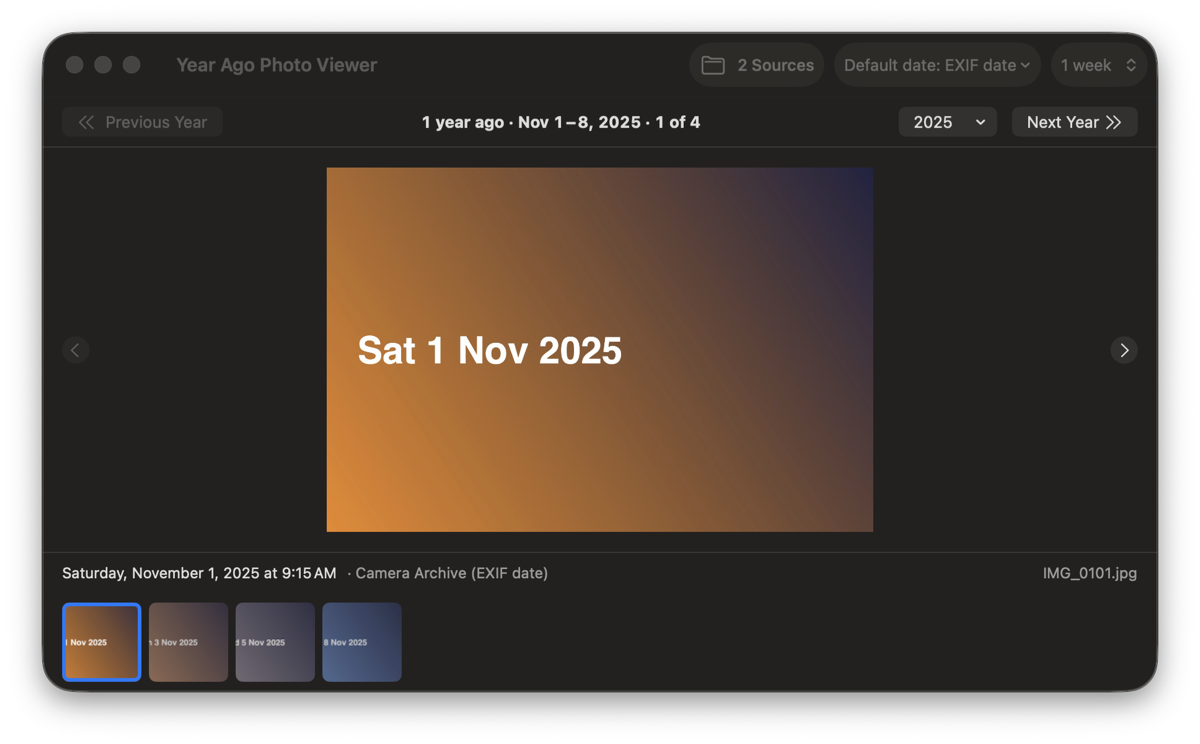
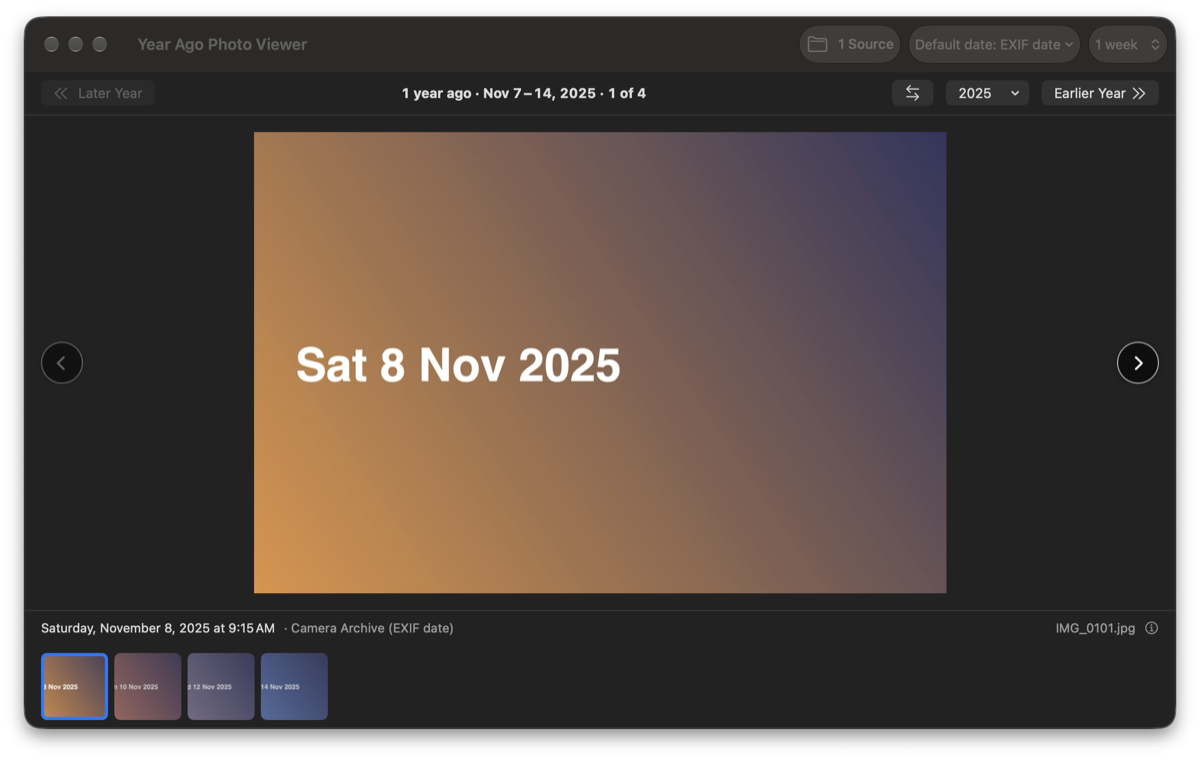
Docs: oldest-first navigation (plan step 4.5)
README, proposal, and checklist describe Earlier Year / Later Year, the
oldest-first setting, jumps to either end, and arrows that carry on into
the next year. The viewer screenshot is retaken with the new year bar,
from made-up sample images.

diff --git a/docs/proposal.md b/docs/proposal.md
@@ -8,8 +8,9 @@ Target platform: macOS 26 (Tahoe), Apple silicon
 
 Year Ago Photo Viewer is a small native macOS app. It shows the photos you took
 around this time in past years. Open it, and you step through last year's
-photos from the past week. Press "Next year", and you step through the same
-week two years ago, then three.
+photos from the past week. Press "Earlier year", and you step through the
+same week two years ago, then three. Or start at the oldest year and travel
+forward in time (section 4.3).
 
 The app reads photos from one or more sources at once:
 
@@ -86,8 +87,8 @@ Some years have no photos in the window. A setting controls what happens:
 - **Setting.** A checkbox: "Show years with no photos". It is on by default.
 - **On.** Every year from 1 to N appears. An empty year shows an empty panel
   with the usual header, such as "6 years ago · 1–8 Nov 2020 · No photos".
-  "Next year" moves to it like any other year.
-- **Off.** Empty years are skipped. "Previous year" and "Next year" jump to
+  "Earlier year" moves to it like any other year.
+- **Off.** Empty years are skipped. "Earlier year" and "Later year" jump to
   the nearest year with photos. The year picker hides empty years.
 
 The checkbox lives in Settings and in the View menu. Changing it applies at
@@ -100,25 +101,36 @@ year with photos. If no year has photos, the app shows the empty panel anyway.
 
 Navigation has two levels: photos within a year, and years.
 
-**Within a year.** The app opens at N = 1 on the first photo in the window.
-The user steps through the photos in date order:
+**Within a year.** The app opens on the first photo in a year's window: at
+N = 1, or with oldest years first, at the oldest year with photos. The user
+steps through the photos in date order:
 
 - **Keys.** Left and right arrow keys.
 - **Buttons.** "Previous photo" and "Next photo" on screen.
 - **Position.** A counter shows progress, such as "12 of 37".
 
-Stepping never crosses into another year. After the last photo, the app shows
-an end card. The card offers a "Next year" button.
+After the last photo, the app shows an end card. The card offers the next
+year in the direction of travel. → on the end card opens the next year with
+photos; ← on a year's first photo returns to the previous year's end card.
 
-**Between years.** Only an explicit action changes the year:
+**Direction.** "Oldest years first" (View menu, Settings, and a ⇆ button in
+the year bar) chooses where travel starts and which way it goes. It's off by
+default. Changing it doesn't move the viewer.
 
-- **Buttons.** "Previous year" and "Next year" in the toolbar.
-- **Keys.** ⌘[ and ⌘].
-- **Picker.** A menu that lists the years. Empty years appear with
-  "(no photos)" or are hidden, per section 4.2.1.
+**Between years.**
+
+- **Buttons.** "Earlier year" and "Later year" in the year bar. The
+  right-hand one always goes forward in the direction of travel.
+- **Keys.** ⌘[ and ⌘] press the left and right buttons. ⇧⌘] jumps to the
+  far end in the direction of travel, and ⇧⌘[ to the start.
+- **Picker.** A menu that starts with "Oldest year" and "Most recent year",
+  then lists the years in travel order. Empty years appear with
+  "(no photos)" or are hidden, per section 4.2.1. The jumps always land on a
+  year with photos.
 
 Changing the year opens that year's window at its first photo. An empty year
-opens the empty panel.
+opens the empty panel. See
+[oldest-first-navigation-implementation-plan.md](oldest-first-navigation-implementation-plan.md).
 
 The header always shows the year both ways, for example:
 **"2 years ago · 1–8 Nov 2024 · 12 of 37"**.
@@ -256,7 +268,7 @@ One main window, built in SwiftUI. The current photo fills most of it.
 ┌───────────────────────────────────────────────────────────────────┐
 │ [Sources: 3 ▾] [Default date: EXIF ▾] [Window: 1 week ▾]          │
 │                                                                   │
-│ ◀◀ Prev year   2 years ago · 1–8 Nov 2024   [Year ▾] Next year ▶▶ │
+│ ◀◀ Later year  2 years ago · 1–8 Nov 2024   ⇆ [Year ▾] Earlier ▶▶ │
 ├───────────────────────────────────────────────────────────────────┤
 │                                                                   │
 │                                                                   │
@@ -280,9 +292,11 @@ One main window, built in SwiftUI. The current photo fills most of it.
   [photo-info-implementation-plan.md](photo-info-implementation-plan.md).
 - **Counter.** Position within this year's window.
 - **Filmstrip.** Thumbnails of this year's photos. Click one to jump to it.
-- **Year controls.** Previous year, next year, and a year picker.
-- **End card.** After the last photo: "That's all for 2024" and a
-  "Next year" button.
+- **Year controls.** Later year and earlier year (sides follow the
+  direction of travel), the ⇆ direction toggle, and a year picker.
+- **End card.** After the last photo: "That's all for 2024" and a button
+  for the next year in the direction of travel, such as "Earlier year:
+  2023".
 - **Sources button.** Shows how many sources are enabled. Opens the Sources
   panel.
 - **Default date menu.** The four date sources. Sets the default for new
@@ -290,7 +304,8 @@ One main window, built in SwiftUI. The current photo fills most of it.
 - **Window menu.** 1 to 6 weeks.
 - **Empty panel.** Shown for a year with no photos, when empty years are
   shown. It reads "No photos from 1–8 Nov 2019". It keeps the year controls
-  and offers a "Next year" button. The filmstrip is hidden.
+  and offers the next year in the direction of travel. The filmstrip is
+  hidden.
 - **Empty years setting.** "Show years with no photos" checkbox. See 4.2.1.
 - **Progress.** A progress bar during the first scan of a large folder.
 
@@ -481,8 +496,9 @@ The code will be public. These rules keep personal data out:
 - **Multiple sources.** Photos from all enabled sources merge in date order.
   Each source uses its own date source. Disabled and offline sources are
   skipped.
-- **Navigation.** Stepping stops at the end card and never changes the year.
-- **Empty years.** With the setting on, "Next year" lands on empty years.
+- **Navigation.** Year moves in both directions, the start year, and the
+  ends skip empty years where they should.
+- **Empty years.** With the setting on, "Earlier year" lands on empty years.
   With it off, it skips them. The all-empty case still shows a panel.
 - **Widget snapshot.** The manifest and thumbnails match the chosen window.
 - **Indexer.** Incremental rescans after add, change, and delete.

diff --git a/README.md b/README.md
@@ -2,7 +2,8 @@
 
 A small macOS app that shows the photos you took around this time in past
 years. Open it to step through last year's photos from the past week. Press
-**Next Year** to see the same week two years ago, then three.
+**Earlier Year** to see the same week two years ago, then three. Or start at
+your oldest photos and travel forward in time.
 
 ![The viewer showing photos from one year ago](docs/images/viewer.png)
 
@@ -87,8 +88,13 @@ App Groups need a development team, so:
 2. **Step through photos.** Use ← and →, the arrow buttons, or the filmstrip.
 3. **Zoom.** Pinch, double-click, or use ⌘= / ⌘- / ⌘0. Drag to look around.
    Moving to another photo returns to fit.
-4. **Change year.** Use **Next Year** / **Previous Year**, ⌘] / ⌘[, or the
-   year menu.
+4. **Change year.** Use **Earlier Year** / **Later Year**, ⌘[ / ⌘], or the
+   year menu. The year menu also jumps to the **Oldest Year** or **Most
+   Recent Year** (⇧⌘[ / ⇧⌘]). On a year's last photo, → carries on into the
+   next year.
+   - **Oldest first.** Click ⇆ in the year bar (or **View › Oldest Years
+     First**) to start at your oldest photos and go forward in time. The
+     right-hand button and ⌘] always move in your direction of travel.
 5. **Photo info.** Click ⓘ in the caption bar, or press ⌘I. Moving to another
    photo closes it. **Open in Maps** shows where the photo was taken. Photos
    library items show basic info only.

diff --git a/docs/manual-test-checklist.md b/docs/manual-test-checklist.md
@@ -112,6 +112,26 @@ possible, one on an external drive.
   allowed, add the system library's file. The app says it's the same
   library. The new row is named "… (File)". Each photo shows once.
 
+## Oldest-first navigation
+
+Use folders with photos from several years around today's date.
+
+- [ ] **Labels.** The year bar says **◀◀ Later Year** and **Earlier Year
+  ▶▶**. Hovering shows the target year and key.
+- [ ] **Oldest first.** Click ⇆. The buttons swap to **◀◀ Earlier Year** and
+  **Later Year ▶▶**; the year doesn't change. **View › Oldest Years First**
+  and **Settings › Start with the oldest year** follow.
+- [ ] **Launch.** With oldest first on, quit and relaunch: it opens at the
+  oldest year with photos. With it off: at 1 year ago.
+- [ ] **Keys.** ⌘[ and ⌘] press the left and right year buttons in both
+  modes.
+- [ ] **Jumps.** The year menu's **Oldest Year** and **Most Recent Year**
+  work, and are disabled when already there. ⇧⌘] jumps to the far end in
+  the direction of travel; ⇧⌘[ to the start.
+- [ ] **End card.** It offers the next year in the direction of travel.
+- [ ] **Across years.** → on the end card opens the next year with photos.
+  ← on a year's first photo goes back to the previous year's end card.
+
 ## Photo info
 
 - [ ] **Open and close.** ⓘ in the caption, or ⌘I, opens Photo Info. ⌘I

diff --git a/docs/oldest-first-navigation-implementation-plan.md b/docs/oldest-first-navigation-implementation-plan.md
@@ -1,6 +1,6 @@
 # Plan: Oldest-First Navigation
 
-Status: steps 4.1–4.4 done (manual checks pending); 4.5 to do.
+Status: done (steps 4.1–4.5).
 Trigger: it's easy to step back from last year, one year at a time, but
 hard to start at the oldest photos and move forward in time.
 
@@ -139,7 +139,8 @@ crossing years without a keyboard.
 Seen working on made-up photos (2012–2025): oldest first opens at 2012
 with Earlier Year disabled; three → presses go photo, end card, then 2015;
 newest first opens at 2025 with Later Year disabled and Earlier Year on
-the right.
+the right. Checked by hand (2026-11-26): the toggle in all three places,
+⌘[ / ⌘], the jumps and ⇧⌘[ / ⇧⌘], ← retracing →, and the end card.
 
 1. **→ on the end card.** Opens the next year in the direction of travel,
    at its first photo. At the last year, nothing happens.
@@ -153,7 +154,7 @@ the right.
 5. **Photo Info.** Changing year this way closes Photo Info, as any photo
    change does.
 
-### 4.5 Docs (to do)
+### 4.5 Docs (done)
 
 - **README.** "Using it": the new labels, jumps, the setting, and arrows
   that carry on into the next year.
